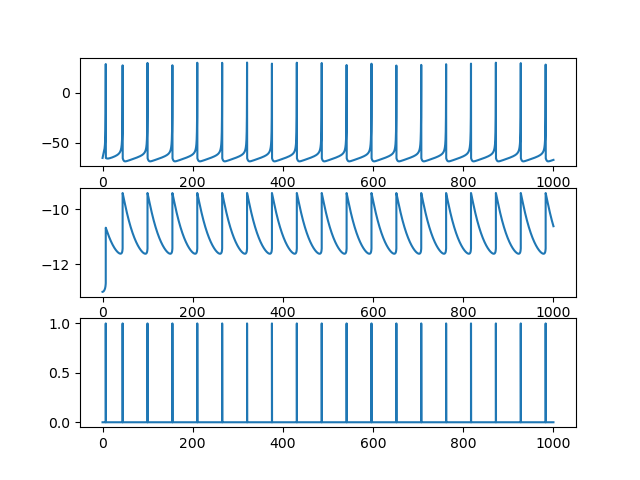
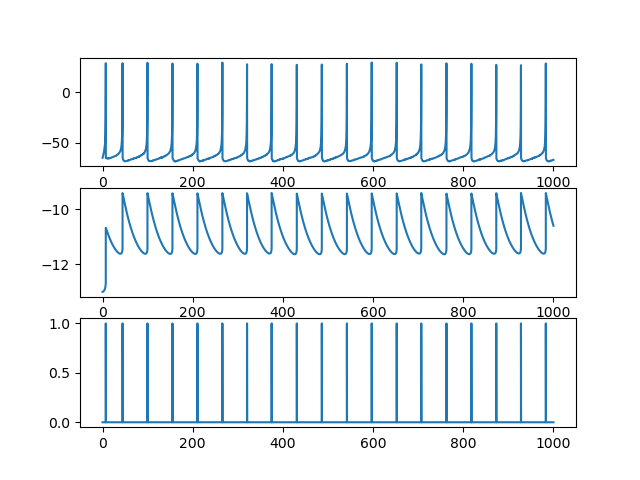
1

diff --git a/config.py b/config.py
@@ -26,6 +26,7 @@ class Config:
     noise = True      # add noise in A
     noise_str = 0.05  # noise strength
     
+    # topology settings
     p_ER = 0.2        # connection probability when creating ER graph
     m_BA = 2          # number of edges to attach from a new node to existing nodes
     k = 3             # number of clusters in A
@@ -38,3 +39,10 @@ class Config:
     
     epoch = 200       # training epoch for readout layer mlp
     lr = 2e-3         # learning rate for mlp
+    
+    # dynamics
+    neuro_type = 'LIF'# 'LIF', 'IZH', 'HH', 'Hybrid'
+    Izh_a = 0.02      # [0.01, 0.15]
+    Izh_b = 0.2       # [0.1, 0.3]
+    Izh_c = -65       # [-70, -45]
+    Izh_d = 8         # [0.02, 10]

diff --git a/dynamics.py b/dynamics.py
@@ -21,7 +21,7 @@ def IzhikevichModel(v0, u0, dt, I, a, b):
     v' = 0.04v^2 + 5v + 140 - u + I
     u' = a(bv - u)
     '''
-    v = v0 + dt * (0.04*v0**2 + 5*v0 + 140 - u0 + I)
+    v = v0 + dt * (0.04*v0**2 + 5*v0 + 145 - u0 + I)
     u = u0 + dt * a * (b * v0 - u0)
     return v, u
 
@@ -29,7 +29,7 @@ def IzhikevichSimulation(v0, u0, dt, a, b, c, d, T, thr):
     vs, us, spikes = [], [], []
     T = np.arange(0, T, dt)
     for t in T:
-        I = 5
+        I = np.random.uniform(-1,1)
         v, u = IzhikevichModel(v0, u0, dt, I, a, b)
         if v>= thr:
             spikes.append(1)
